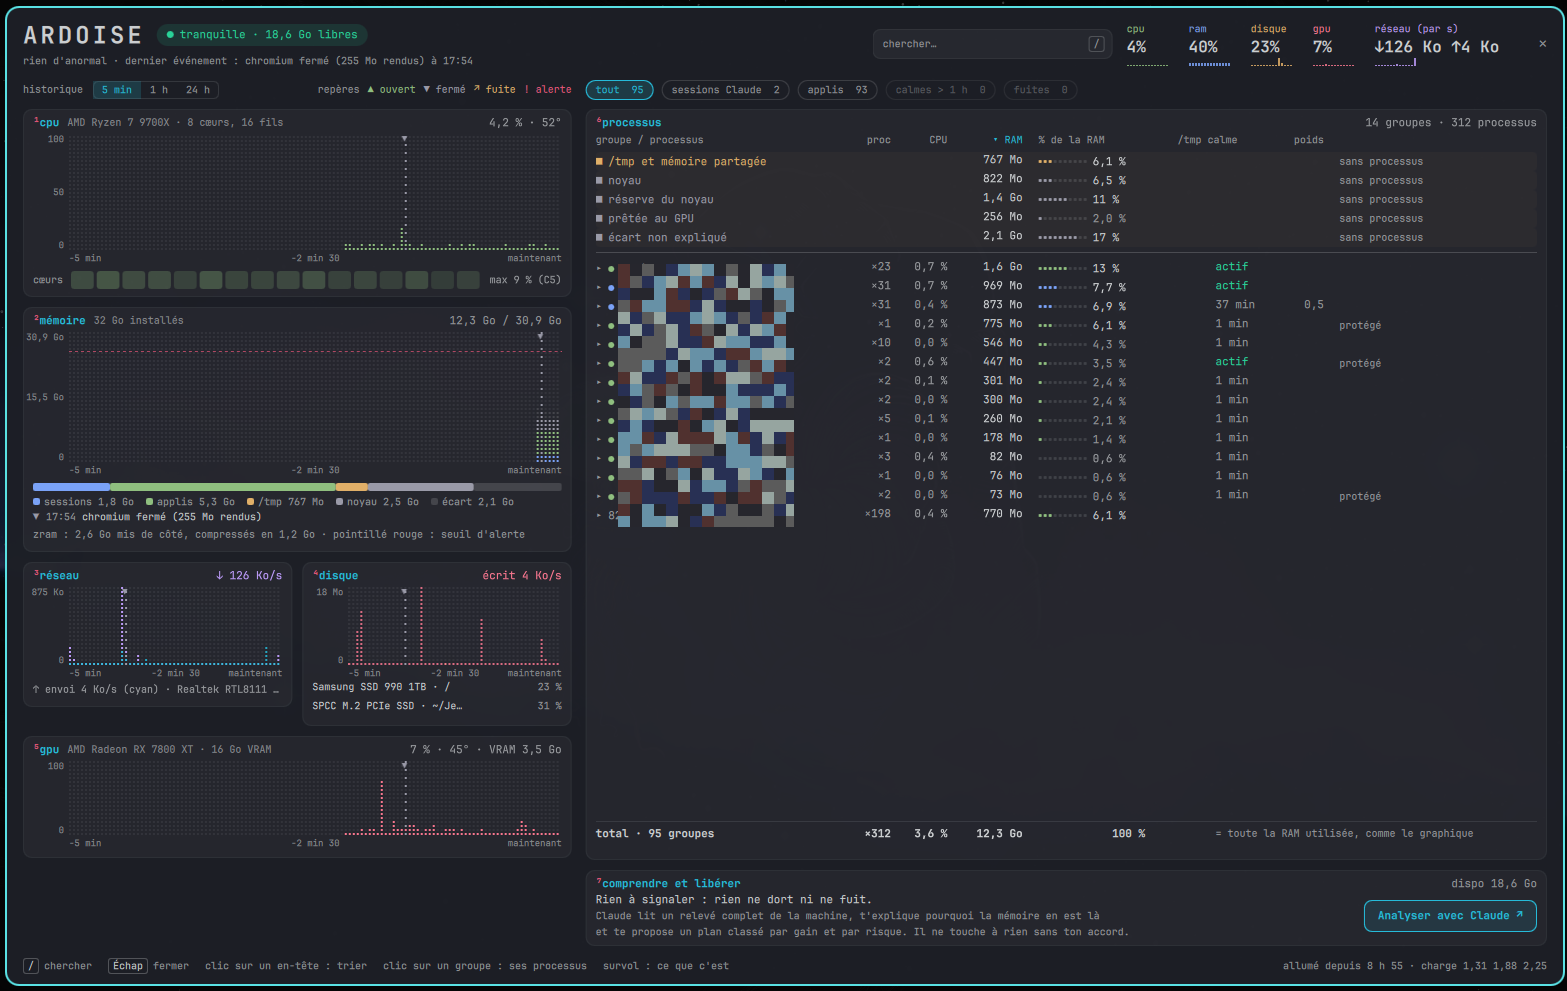
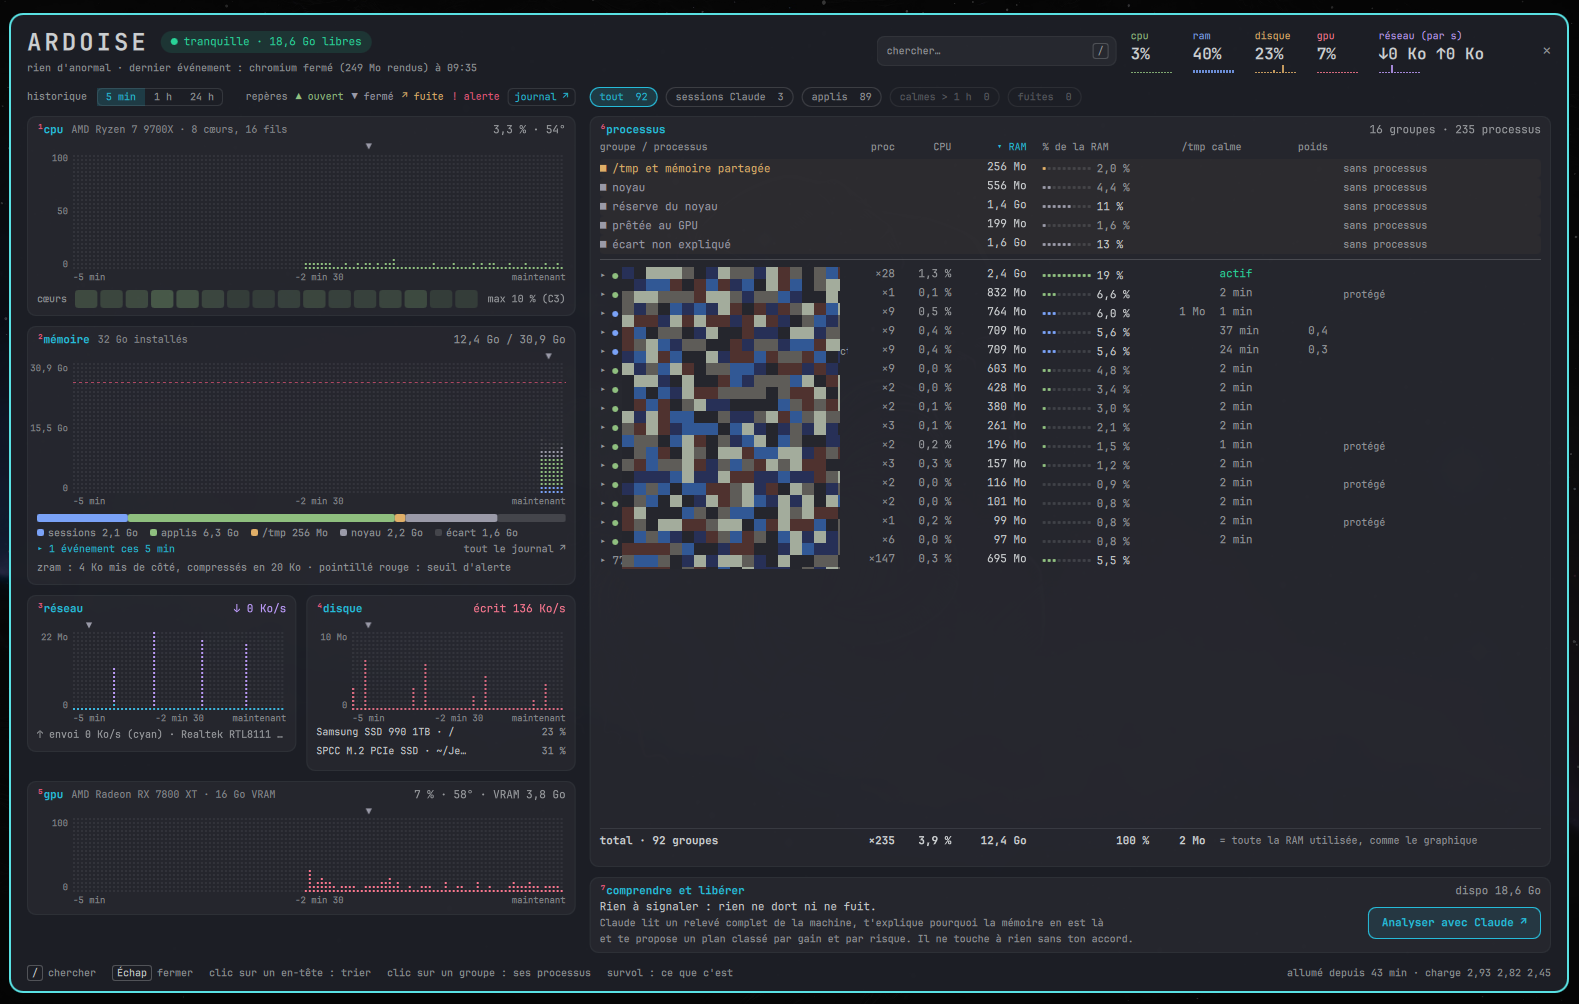
README: new screenshots (main window, 24 h view, events window)

diff --git a/README.md b/README.md
@@ -2,6 +2,12 @@
 
 An Omarchy bar widget that tells you **who** is using your machine, in rows that add up to the total.
 
+![Ardoise: the breakdown, the charts and every process grouped by app or session](preview.png)
+
+<sub>Screenshots taken with the French interface. Claude Code session names are pixelated.</sub>
+
+## Who uses the RAM
+
 Most monitors list processes one by one. Ardoise groups them by what you actually launched and charges each group everything it costs:
 
 - **Claude Code sessions** with their MCP servers, their shells, their scratchpad in `/tmp` and their share of zram — one bill per session.
@@ -9,15 +15,25 @@ Most monitors list processes one by one. Ardoise groups them by what you actuall
 - **Apps**, grouped by application, and **clones** (the same MCP server running once per session).
 - **The gap**: whatever the breakdown cannot explain, shown instead of hidden. The rows always add up to the RAM in use.
 
-It also draws CPU, memory, network, disk and GPU charts (5 min, 1 h, 24 h), and lists every process grouped by app or session, with actions on hover (pause, resume, lower priority, stop, kill).
+Every process is listed, grouped by app or session, with actions on hover (pause, resume, lower priority, stop, kill).
 
 To free memory, **Analyze with Claude** opens a Claude Code conversation that reads a full report of the machine (groups, idle sessions, orphan scratchpads, a ranked list of what could be closed) and proposes a plan sorted by gain and risk. It changes nothing without your approval.
 
-Events (a session or app opening or closing, a memory leak, a RAM alert) show as small notches above the charts and in a folding log under the memory chart; hovering a log line marks that moment on every chart. Events too close to read apart merge into one notch: the most important one (alert, then leak, closing, opening) followed by how many there are. **log ↗** opens a window with every event over 1 h, 24 h or 48 h: the memory curve with a notch per event, filters, and the details of each one (effect on memory, RAM in use at that moment, the curve of a leak).
+## History
+
+CPU, memory (split by owner), network, disk and GPU over 5 min, 1 h or 24 h, kept on disk for 48 h.
+
+![The 24 h view, with event notches above each chart](screenshots/24h.png)
+
+## Events
+
+A session or app opening or closing, a memory leak, a RAM alert: each one is a small notch above the charts. Notches too close to read apart merge into the most important one (alert, then leak, closing, opening) followed by how many there are. A folding log sits under the memory chart; hovering a line marks that moment on every chart.
+
+**log ↗** opens the events window: 1 h, 24 h or 48 h, a strip of memory, CPU, network, disk or GPU with a notch per event, filters by kind, a list by day, and the details of each event (effect on memory, RAM in use at that moment, the curve of a leak).
+
+![The events window](screenshots/events.png)
 
 The interface follows the system language: French or English.
-
-![Ardoise](preview.png)
 
 ## Install
 
